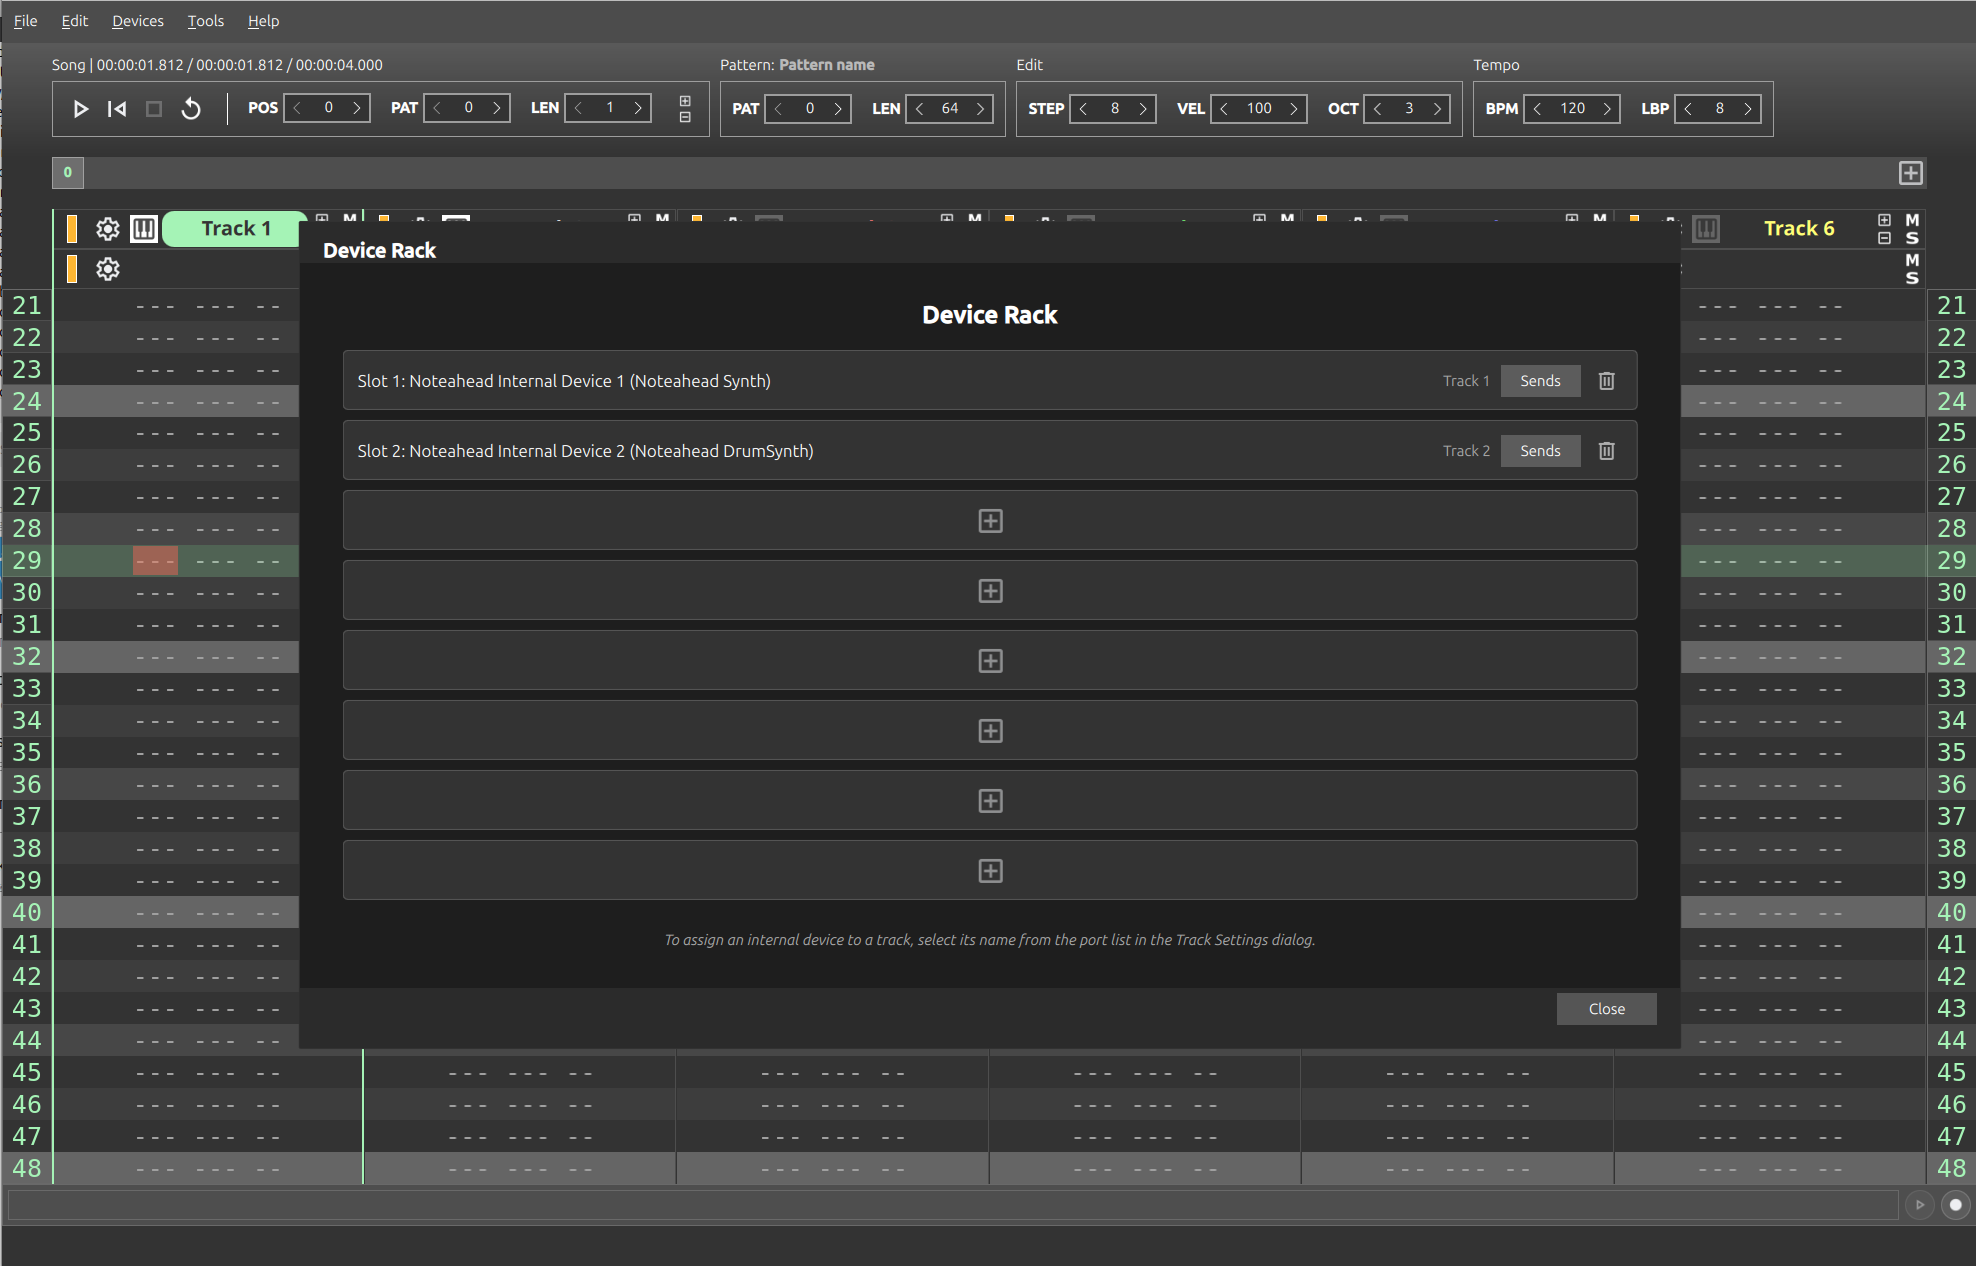
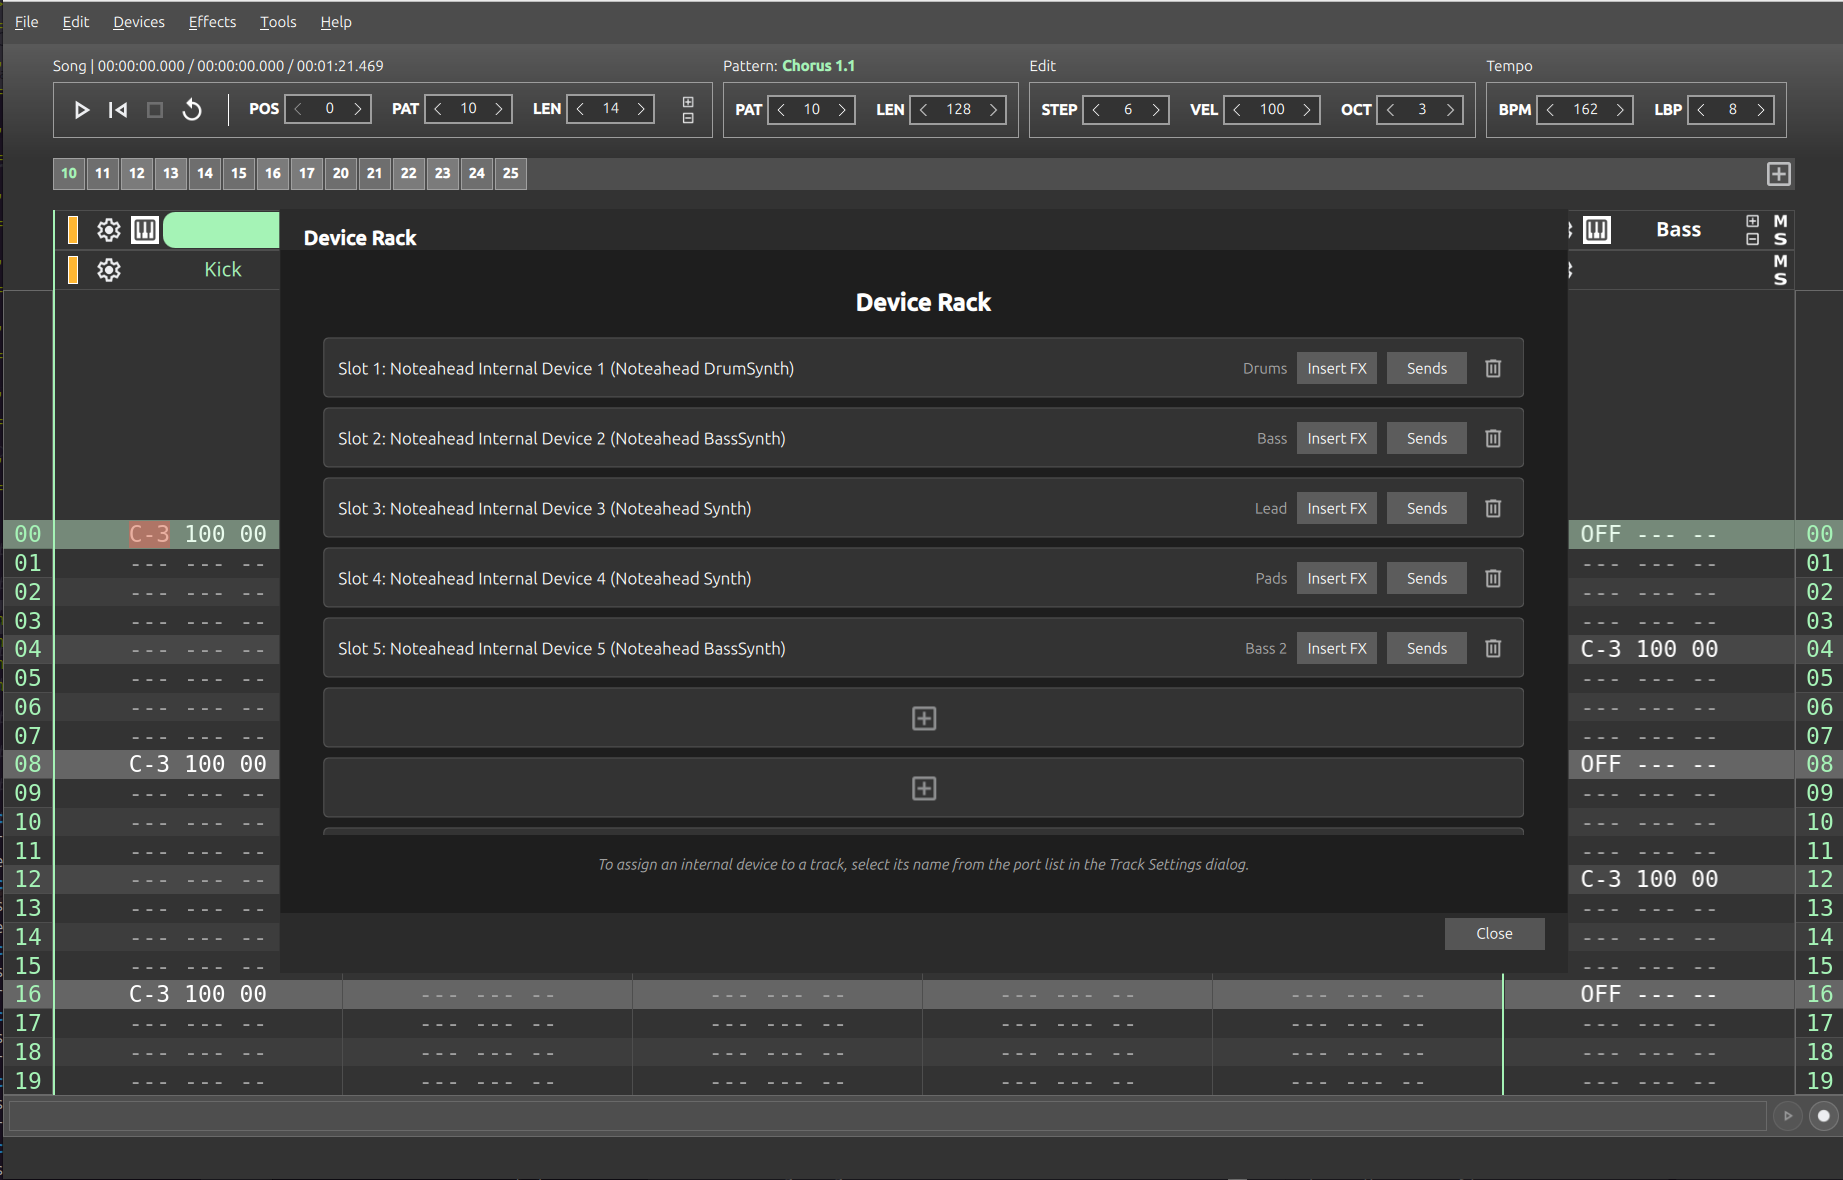
Update screenshots

diff --git a/README.md b/README.md
@@ -9,21 +9,24 @@ While it excels as a dedicated MIDI "brain" for external synthesizers and drum m
 Noteahead is written in Qt/QML/C++20 on top of RtMidi back-end + RtAudio. It builds with CMake and uses CTest + Qt Test framework for unit tests.
 
 <table>
-  <tr><td colspan="3"><img src="/screenshots/1.8.0/1.png" width="100%"></td></tr>
+  <tr><td colspan="4"><img src="/screenshots/1.8.0/1.png" width="100%"></td></tr>
+  <tr>
+    <td><img src="/screenshots/3.1.0/DeviceRack.png" width="100%"></td>
+    <td><img src="/screenshots/3.1.0/EffectRack.png" width="100%"></td>
+    <td><img src="/screenshots/3.1.0/AudioRenderer.png" width="100%"></td>
+    <td><img src="/screenshots/2.2.0/Sampler.png" width="100%"></td>
+  </tr>
+  <tr>
+    <td><img src="/screenshots/3.1.0/Synth.png" width="100%"></td>
+    <td><img src="/screenshots/3.1.0/BassSynth.png" width="100%"></td>
+    <td><img src="/screenshots/3.1.0/DrumSynth.png" width="100%"></td>
+    <td><img src="/screenshots/0.15.0/15b.png" width="100%"></td>
+  </tr>
   <tr>
     <td><img src="/screenshots/0.6.0/Noteahead_1.png" width="100%"></td>
     <td><img src="/screenshots/0.6.0/Noteahead_2.png" width="100%"></td>
     <td><img src="/screenshots/0.6.0/Noteahead_3.png" width="100%"></td>
-  </tr>
-  <tr>
-    <td><img src="/screenshots/0.15.0/2b.png" width="100%"></td>
     <td><img src="/screenshots/0.15.0/9b.png" width="100%"></td>
-    <td><img src="/screenshots/0.15.0/15b.png" width="100%"></td>
-  </tr>
-  <tr>
-    <td><img src="/screenshots/2.2.0/Sampler.png" width="100%"></td>
-    <td><img src="/screenshots/2.2.0/Synth.png" width="100%"></td>
-    <td><img src="/screenshots/3.1.0/DeviceRack.png" width="100%"></td>
   </tr>
 </table>
 